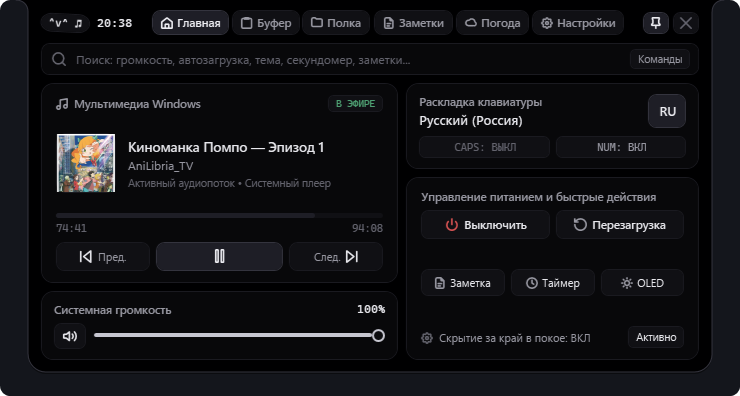
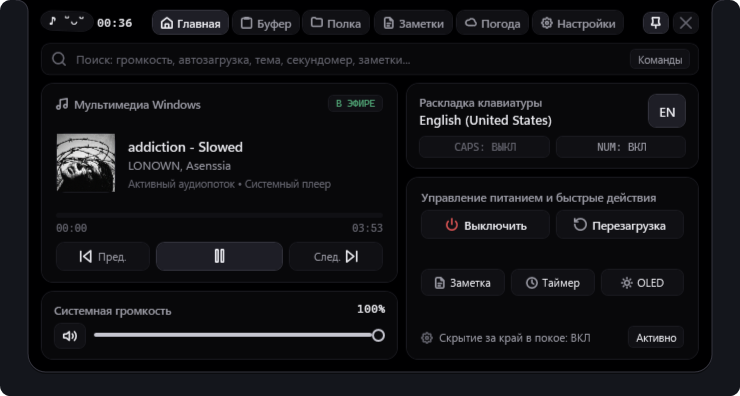
docs: default English README without emojis, add README.ru.md, keep only standard Dark/Light screenshots

diff --git a/README.md b/README.md
@@ -11,154 +11,142 @@
 
 <br/>
 
-**Элегантный, молниеносный и функциональный «Динамический остров» для Windows 10 и 11 в стиле Apple Dynamic Island и ультрасовременной эстетике iOS 26 Liquid Glass.**
+**A lightweight, native, and high-performance Dynamic Island interface for Windows 10 and Windows 11.**
 
-[Скачать установщик (.exe)](https://github.com/paraxyoz/windows-dynamic-island/releases/latest) • [Портативная версия](https://github.com/paraxyoz/windows-dynamic-island/releases/latest) • [Возможности](#-основные-возможности) • [Горячие клавиши](#-горячие-клавиши) • [Сборка](#-сборка-из-исходников)
-
-<br/>
-
-<img src="assets/screenshots/capsule_ios26.png" alt="Windows Dynamic Island в спокойном состоянии (iOS 26 Glass)" width="680" />
+[Download Installer (.exe)](https://github.com/paraxyoz/windows-dynamic-island/releases/latest) | [Portable Version](https://github.com/paraxyoz/windows-dynamic-island/releases/latest) | [Features](#key-features) | [Hotkeys](#default-hotkeys) | [Build Guide](#building-from-source) | [Документация на русском](README.ru.md)
 
 <br/>
 
-<img src="assets/screenshots/home_ios26.png" alt="Windows Dynamic Island — Главное меню (iOS 26 Liquid Glass)" width="780" />
+<img src="assets/screenshots/capsule_dark.png" alt="Windows Dynamic Island in collapsed state" width="420" />
+
+<br/>
+
+<img src="assets/screenshots/home_dark.png" alt="Windows Dynamic Island Dark Theme" width="760" />
 
 </div>
 
 ---
 
-## 🌟 Почему Windows Dynamic Island?
+## Overview
 
-В отличие от громоздких веб-оболочек на Electron, **Windows Dynamic Island** написан на чистом C# и нативном **WPF (.NET Framework 4.8)** с прямым вызовом Win32 / CoreAudio / Windows Runtime API:
-- **0% нагрузки на процессор** и видеокарту в состоянии покоя.
-- **Потребление ОЗУ всего ~20–30 МБ**.
-- **100% клик-сквозь (`HTTRANSPARENT`)** — остров нигде не блокирует клики мыши вне активной капсулы; окна под ним свободно нажимаются и скроллятся.
-- **Умное скрытие в полноэкранных играх и фильмах** с отслеживанием именно того монитора, на котором запущен остров.
-- **Поддержка любых DPI-масштабов и нескольких мониторов** с авто-подгонкой положения.
+**Windows Dynamic Island** is built using native **C# and WPF (.NET Framework 4.8)** with low-level Win32, Windows Runtime, and CoreAudio COM integrations:
+
+- **Ultra-low Resource Footprint:** Consumes ~20–25 MB of RAM and 0% CPU/GPU cycles when idle.
+- **Hardware-Accelerated Animation Engine:** Frame-locked 120 FPS+ spring physics without layout stutter.
+- **True Click-Through Transparency (`HTTRANSPARENT`):** Only the active capsule consumes pointer events. Underlying windows remain fully clickable and scrollable.
+- **Fullscreen Application Detection:** Automatically hides during full-screen games and media playback, scoped per-monitor.
+- **Multi-Monitor & DPI Aware:** Dynamically positions and scales across multiple displays and varying display scaling factors.
 
 ---
 
-## 📸 Галерея скриншотов
+## Visual Themes
 
 <div align="center">
 
-### 💎 Тема iOS 26 Liquid Glass & Тёмная OLED
-| Тема iOS 26 Liquid Glass | Тёмная тема (OLED Dark) |
+| Dark Theme (OLED Black) | Light Theme |
 | :---: | :---: |
-| <img src="assets/screenshots/home_ios26.png" width="400" /> | <img src="assets/screenshots/home_dark.png" width="400" /> |
-
-### 📝 Заметки: Отдельный список карточек & Редактор с напоминаниями
-| Список отдельных заметок (Поиск, Пин, Быстрое выключение ✕) | Редактор выбранной заметки (+5м, +15м, +1ч, ЧЧ:ММ) |
-| :---: | :---: |
-| <img src="assets/screenshots/notes_list.png" width="400" /> | <img src="assets/screenshots/note_editor.png" width="400" /> |
-
-### 🔔 Мелодии уведомлений & 📋 Умный буфер обмена
-| Выбор звука уведомлений (Apple Pay, Plum, Trum, Phonk) | Буфер обмена с защитой токенов и OLE Drag & Drop |
-| :---: | :---: |
-| <img src="assets/screenshots/settings_sound.png" width="400" /> | <img src="assets/screenshots/clipboard.png" width="400" /> |
-
-### 📂 Файловая полка & 🌤 Реальная погода
-| Файловая полка (Drag & Drop ссылки без дублирования) | Прогноз погоды Open-Meteo (24ч и 7 дней) |
-| :---: | :---: |
-| <img src="assets/screenshots/file_shelf.png" width="400" /> | <img src="assets/screenshots/weather.png" width="400" /> |
+| <img src="assets/screenshots/home_dark.png" width="380" /> | <img src="assets/screenshots/home_light.png" width="380" /> |
+| <img src="assets/screenshots/capsule_dark.png" width="380" /> | <img src="assets/screenshots/capsule_light.png" width="380" /> |
 
 </div>
 
 ---
 
-## ✨ Основные возможности
+## Key Features
 
-### 1. 💧 Спокойное состояние и адаптивный мениск
-- **Капля-мениск:** Прилипает к верхней кромке экрана с плавными вогнутыми ушками, рассчитанными по математическим кубическим кривым Безье.
-- **Живой смайлик-компаньон:** 5 вариантов чисто текстовых каомодзи (`^_^`, `•ᴗ•`, `[•_•]`, `=^..^=`, `◕‿◕`). Реагирует на звук, переключение языков, копирование файлов, без навязчивости.
-- **Приятный ритм музыки:** При воспроизведении музыки смайлик мягко кивает в такт со стабильной ноткой `♪ ^_^`, без резких прыжков.
-- **Часы и погода:** Точное системное время и текущая погода за окном прямо в центре капсулы.
+### 1. Collapsed State & Adaptive Meniscus
+- **Seamless Drop Extrusion:** Attaches to the top edge of the primary or selected screen with cubic Bezier curves.
+- **Companion Status Glyph:** Lightweight text-based kaomoji indicators (`^_^`, `•ᴗ•`, `[•_•]`, `=^..^=`, `◕‿◕`) reflecting audio state, layout toggles, and notification alerts.
+- **Live Clock & Weather:** High-precision monospace clock display alongside real-time outdoor temperature.
 
-### 2. ⚡ Быстрые тосты и приоритетная очередь уведомлений
-- **Плавное вытеснение без задержек:** Быстрые действия (переключение музыки Play/Pause, смена трека, изменение громкости) мгновенно сменяют друг друга без зависания в долгой очереди.
-- **Регулировка громкости без мерцания:** Плавный градиентный ползунок откликается на системное колесо громкости с квадратичным сглаживанием 65 мс.
-- **Интерактивные напоминания:** Напоминания по заметкам можно закрыть в один клик кнопкой **«Выполнено ✓»** или отложить кнопкой **«Отложить +5м»**.
-- **Новые приятные мелодии:** Встроенные чистые звуки (`Apple Pay`, `Plum`, `Trum`, `Phonk`) с предпрослушкой в настройках.
+### 2. Transient Notification Toasts
+- **Preemptive Event Dispatching:** High-frequency actions (volume adjustments, media play/pause, track changes) preempt active toasts immediately without queuing delays.
+- **Flicker-Free Hardware Volume:** Smooth quadratic easing on volume change notifications.
+- **Notification Sounds:** Built-in clean audio presets (`Apple Pay`, `Plum`, `Trum`, `Phonk`) with an instant preview button in settings.
+- **Interactive Action Buttons:** Note reminders can be marked completed or snoozed directly from the toast layer.
 
-### 3. 📝 Полноценный рабочий стол заметок
-- **Каждая заметка отдельно:** Чистый вертикальный список карточек с временем обновления, статусом закрепления и превью текста.
-- **Управление напоминаниями в 1 клик:** Зелёная капсула `🔔 18:30 ✕` прямо в карточке заметки отключает напоминание без захода внутрь.
-- **Детальный редактор:** Открывается по клику на карточку заметки — заголовок, многострочный текст, кнопки быстрых сдвигов `+5м`, `+15м`, `+1ч` и точный ввод `ЧЧ:ММ`.
+### 3. Dedicated Notes Workspace
+- **Card-Based Note Management:** Structured vertical card list with live search, pin toggles, and timestamps.
+- **One-Click Reminder Controls:** Quick toggles for reminders (`+5m`, `+15m`, `+1h`, and custom time entry `HH:mm`) with a direct disable action (`✕`).
+- **Real-Time Auto-Save:** Changes are persisted atomically with automated recovery backups.
 
-### 4. 📋 Умный буфер обмена с защитой приватности
-- **Автоматический сбор истории:** Мгновенный перехват через Win32 API без фонового поллинга.
-- **Фильтрация паролей:** Автоматически отсекает мастер-пароли, пароли из 1Password/Bitwarden и секретные токены (`sk-...`, `ghp_...`).
-- **OLE Drag & Drop:** Вы можете перетащить запись мышью прямо в поле ввода Telegram, Discord, Word или браузер.
+### 4. Privacy-Focused Clipboard History
+- **Automatic History Tracking:** Captures text clipboard changes via `WM_CLIPBOARDUPDATE`.
+- **Credential & Token Filter:** Automatically ignores sensitive data (passwords, tokens, API keys matching `sk-...`, `ghp_...`).
+- **Native OLE Drag & Drop:** Drag clipboard items directly into applications, editors, Discord, or Telegram.
 
-### 5. 📁 Файловая полка (Shelf)
-- Перетаскивайте файлы и папки прямо на капсулу — полка создаёт лёгкие ссылки без копирования и не тратит место на диске.
-- Быстрый доступ к документам и проектам из любого полноэкранного окна.
+### 5. File Shelf
+- **Non-Destructive Referencing:** Drag files onto the island to create temporary staging links without duplicating files on disk.
+- **Cross-Application Drag & Drop:** Drag files directly from the shelf back into Explorer, chat clients, or browsers.
 
-### 6. ⏱ Таймер и мульти-секундомер
-- Быстрые пресеты `1м`, `5м`, `10м`, `25м` (Pomodoro).
-- Таймер выводит оставшееся время прямо в свёрнутую капсулу острова.
-- Секундомер с фиксацией промежуточных кругов (Laps).
+### 6. Time Instruments
+- **Countdown Timer:** Quick duration presets (`1m`, `5m`, `10m`, `25m`) with live countdown projected into the collapsed capsule.
+- **Stopwatch:** High-resolution split and cumulative lap tracking.
 
-### 7. 🌤 Погода без API-ключей
-- Интеграция с открытым метео-сервером Open-Meteo.
-- Поиск любых городов мира, почасовой прогноз на 24 часа и недельный прогноз.
+### 7. Weather Integration
+- **Open-Meteo REST API:** Real-time meteorological data with zero API key requirement.
+- **Forecasts:** 24-hour hourly trend and 7-day extended forecasts with offline caching.
 
 ---
 
-## ⌨ Горячие клавиши
+## Default Hotkeys
 
-| Сочетание клавиш | Действие |
+| Key Combination | Action |
 | :--- | :--- |
-| <kbd>Alt</kbd> + <kbd>Space</kbd> | Развернуть / свернуть Dynamic Island |
-| <kbd>Alt</kbd> + <kbd>N</kbd> | Открыть компактную быструю заметку (или раздел Заметок) |
-| <kbd>Alt</kbd> + <kbd>B</kbd> | Мгновенно открыть историю буфера обмена |
+| `Alt + Space` | Expand / collapse Dynamic Island (or reveal if hidden) |
+| `Alt + N` | Open Quick Note / Notes section |
+| `Alt + B` | Open Clipboard History |
 
 ---
 
-## 🚀 Установка
+## Installation
 
-### Вариант 1: Автономный инсталлятор (Рекомендуется)
-1. Скачайте **[`WindowsDynamicIslandSetup.exe`](https://github.com/paraxyoz/windows-dynamic-island/releases/latest)** из раздела [Releases](https://github.com/paraxyoz/windows-dynamic-island/releases).
-2. Запустите установщик. Он автоматически установит приложение, создаст ярлыки в меню Пуск и настроит автозапуск по желанию.
-3. *Для тихой автоматической установки:*
+### Installer (Recommended)
+1. Download **`WindowsDynamicIslandSetup.exe`** from [Releases](https://github.com/paraxyoz/windows-dynamic-island/releases/latest).
+2. Run the executable to install the application, create Start Menu shortcuts, and optionally register startup.
+3. For silent automated deployment:
    ```powershell
    .\WindowsDynamicIslandSetup.exe --silent
    ```
 
-### Вариант 2: Портативная версия (Portable)
-1. Скачайте **[`WindowsDynamicIsland.exe`](https://github.com/paraxyoz/windows-dynamic-island/releases/latest)**.
-2. Поместите в любую удобную папку и запустите. Никаких реестров и внешних зависимостей — всё работает из коробки.
+### Portable Executable
+1. Download **`WindowsDynamicIsland.exe`** from [Releases](https://github.com/paraxyoz/windows-dynamic-island/releases/latest).
+2. Place the executable in any directory and launch directly. No registry changes or external dependencies are required.
 
 ---
 
-## 🛠 Сборка из исходников
+## Building from Source
 
-Для сборки требуется Windows 10/11 и Visual Studio Build Tools / MSBuild:
+### Prerequisites
+- Windows 10 (version 1903+) or Windows 11 (x64)
+- .NET Framework 4.8 Developer Pack
+- MSBuild (Visual Studio 2019/2022 or Build Tools)
 
+### Build Steps
 ```powershell
-# Клонируйте репозиторий
+# Clone the repository
 git clone https://github.com/paraxyoz/windows-dynamic-island.git
 cd windows-dynamic-island
 
-# Запустите скрипт компиляции и прогона тестов
+# Compile binaries and execute unit tests
 powershell -ExecutionPolicy Bypass -File .\build.ps1
 ```
 
-Скрипт автоматически:
-1. Компилирует проект в конфигурации `Release x64`.
-2. Запускает 9/9 автоматических модульных тестов (`WindowsDynamicIsland.Tests.exe`).
-3. Собирает установщик `WindowsDynamicIslandSetup.exe` в папку `dist/`.
+The build script will:
+1. Compile `src/WindowsDynamicIsland` in `Release x64` configuration.
+2. Run automated verification tests (`WindowsDynamicIsland.Tests.exe`).
+3. Compile the standalone setup installer into `dist/`.
 
 ---
 
-## 🔍 Поисковые теги / SEO Keywords
+## Search Indexing & Tags
 
-`windows dynamic island`, `dynamic island for windows 11`, `динамический остров виндовс`, `apple dynamic island pc`, `windows 11 customization`, `glassmorphism widget windows`, `wpf dynamic island`, `desktop productivity tool`, `clipboard manager windows 11`, `ios 26 glass widget`, `windows остров виджет`, `динамический остров на пк`.
+`windows dynamic island`, `dynamic island windows 11`, `dynamic island pc`, `wpf dynamic island`, `windows 11 desktop widget`, `csharp wpf desktop tool`, `desktop productivity utility`, `clipboard manager windows`, `windows 10 customization`.
 
 ---
 
-## 📄 Лицензия
+## License
 
-Проект распространяется под свободной и открытой лицензией [MIT](LICENSE). Разработано с душой и вниманием к деталям.
+This project is licensed under the [MIT License](LICENSE).
 
-**Автор:** [@paraxyoz](https://github.com/paraxyoz)
+Developed by [@paraxyoz](https://github.com/paraxyoz).

diff --git a/README.ru.md b/README.ru.md
@@ -1,0 +1,141 @@
+# Windows Dynamic Island
+
+<div align="center">
+
+[![Release](https://img.shields.io/badge/Релиз-v1.0.0--beta-6366f1?style=for-the-badge&logo=github)](https://github.com/paraxyoz/windows-dynamic-island/releases)
+[![Platform](https://img.shields.io/badge/Платформа-Windows%2010%20%7C%2011%20(x64)-0078d4?style=for-the-badge&logo=windows)](https://github.com/paraxyoz/windows-dynamic-island)
+[![Framework](https://img.shields.io/badge/.NET%20Framework-4.8%20%7C%20WPF-512bd4?style=for-the-badge&logo=dotnet)](https://github.com/paraxyoz/windows-dynamic-island)
+[![Performance](https://img.shields.io/badge/Производительность-120%2B%20FPS%20GPU-10b981?style=for-the-badge&logo=nvidia)](https://github.com/paraxyoz/windows-dynamic-island)
+[![Memory](https://img.shields.io/badge/ОЗУ-~25%20МБ-059669?style=for-the-badge)](https://github.com/paraxyoz/windows-dynamic-island)
+[![License](https://img.shields.io/badge/Лицензия-MIT-amber?style=for-the-badge)](LICENSE)
+
+<br/>
+
+**Легковесный, нативный и высокопроизводительный «Динамический остров» для Windows 10 и Windows 11.**
+
+[Скачать установщик (.exe)](https://github.com/paraxyoz/windows-dynamic-island/releases/latest) | [Портативная версия](https://github.com/paraxyoz/windows-dynamic-island/releases/latest) | [Возможности](#основные-возможности) | [Горячие клавиши](#горячие-клавиши) | [Сборка](#сборка-из-исходников) | [English Documentation](README.md)
+
+<br/>
+
+<img src="assets/screenshots/capsule_dark.png" alt="Windows Dynamic Island в свёрнутом состоянии" width="420" />
+
+<br/>
+
+<img src="assets/screenshots/home_dark.png" alt="Windows Dynamic Island Тёмная тема" width="760" />
+
+</div>
+
+---
+
+## Обзор
+
+**Windows Dynamic Island** разработан на **C# и WPF (.NET Framework 4.8)** с использованием нативных API Windows (Win32, CoreAudio COM, Windows Media Session):
+
+- **Минимальное потребление ресурсов:** Около 20–25 МБ оперативной памяти и 0% нагрузки на CPU/GPU в покое.
+- **Аппаратная пружинная физика:** Стабильные 120+ FPS без рывков интерфейса.
+- **Сквозные клики (`HTTRANSPARENT`):** Только активная капсула перехватывает клики мыши. Все окна под ней остаются кликабельными.
+- **Автоматическое скрытие в полноэкранных приложениях:** Скрывается при запуске игр и полноэкранного видео на текущем мониторе.
+- **Поддержка нескольких мониторов и любого масштаба DPI:** Корректное позиционирование и масштабирование без размытия интерфейса.
+
+---
+
+## Темы оформления
+
+<div align="center">
+
+| Тёмная тема (OLED Dark) | Светлая тема |
+| :---: | :---: |
+| <img src="assets/screenshots/home_dark.png" width="380" /> | <img src="assets/screenshots/home_light.png" width="380" /> |
+| <img src="assets/screenshots/capsule_dark.png" width="380" /> | <img src="assets/screenshots/capsule_light.png" width="380" /> |
+
+</div>
+
+---
+
+## Основные возможности
+
+### 1. Свёрнутое состояние и адаптивный мениск
+- **Капля-мениск:** Сглаженный контур примыкания к верхней кромке экрана по кубическим кривым Безье.
+- **Смайлик-компаньон:** Текстовые каомодзи (`^_^`, `•ᴗ•`, `[•_•]`, `=^..^=`, `◕‿◕`), отражающие статус воспроизведения музыки, раскладку клавиатуры и уведомления.
+- **Часы и температура:** Моноширинные часы и актуальная температура за окном в центре капсулы.
+
+### 2. Всплывающие уведомления (Тосты)
+- **Мгновенное вытеснение:** Быстрые действия (регулировка громкости, пауза/воспроизведение, переключение треков) сменяют друг друга сразу, без ожидания очереди.
+- **Плавный индикатор громкости:** Квадратичное сглаживание без мерцания при регулировке колесом мыши.
+- **Системные звуки уведомлений:** Чистые пресеты (`Apple Pay`, `Plum`, `Trum`, `Phonk`) с предпрослушкой в настройках.
+- **Интерактивные действия:** Завершение или перенос напоминаний прямо из тоста.
+
+### 3. Рабочее пространство заметок
+- **Список карточек:** Отдельное отображение каждой заметки с поиском, закреплением и временем последнего изменения.
+- **Управление напоминаниями в один клик:** Быстрое отключение напоминания кнопкой `✕` в списке или детальная настройка сдвига (`+5м`, `+15м`, `+1ч`, точное время `ЧЧ:ММ`).
+- **Автоматическое сохранение:** Мгновенное сохранение на диск с созданием резервных копий.
+
+### 4. Буфер обмена с защитой приватности
+- **Перехват истории:** Фиксация текста через `WM_CLIPBOARDUPDATE` без фонового опроса.
+- **Фильтрация чувствительных данных:** Автоматический пропуск паролей из менеджеров паролей и токенов доступа (`sk-...`, `ghp_...`).
+- **OLE Drag & Drop:** Прямое перетаскивание записей мышью в Telegram, Discord, браузер или текстовые редакторы.
+
+### 5. Файловая полка (Shelf)
+- Создание ссылок на файлы и папки без дублирования данных на диске.
+- Быстрое перетаскивание файлов обратно в проводник или мессенджеры.
+
+### 6. Таймер и секундомер
+- Быстрые пресеты на 1, 5, 10 и 25 минут с отображением отсчёта в свёрнутой капсуле.
+- Секундомер с фиксацией кругов.
+
+### 7. Погода
+- Открытый API Open-Meteo без необходимости регистрации ключей.
+- Почасовой прогноз на 24 часа и недельный прогноз на 7 дней.
+
+---
+
+## Горячие клавиши
+
+| Сочетание клавиш | Действие |
+| :--- | :--- |
+| `Alt + Space` | Развернуть / свернуть Dynamic Island |
+| `Alt + N` | Открыть быструю заметку / Заметки |
+| `Alt + B` | Открыть историю буфера обмена |
+
+---
+
+## Установка
+
+### Автономный инсталлятор (Рекомендуется)
+1. Скачайте **`WindowsDynamicIslandSetup.exe`** со страницы [Releases](https://github.com/paraxyoz/windows-dynamic-island/releases/latest).
+2. Запустите установщик. Он установит программу и создаст ярлыки в меню Пуск.
+3. Для тихой установки:
+   ```powershell
+   .\WindowsDynamicIslandSetup.exe --silent
+   ```
+
+### Портативная версия
+1. Скачайте **`WindowsDynamicIsland.exe`** со страницы [Releases](https://github.com/paraxyoz/windows-dynamic-island/releases/latest).
+2. Поместите файл в любую папку и запустите. Никаких реестров или внешних библиотек не требуется.
+
+---
+
+## Сборка из исходников
+
+```powershell
+# Клонирование репозитория
+git clone https://github.com/paraxyoz/windows-dynamic-island.git
+cd windows-dynamic-island
+
+# Сборка и прогон тестов
+powershell -ExecutionPolicy Bypass -File .\build.ps1
+```
+
+---
+
+## Поисковые теги
+
+`windows dynamic island`, `dynamic island windows 11`, `динамический остров виндовс`, `apple dynamic island pc`, `windows 11 customization`, `wpf desktop widget`, `desktop productivity utility`, `clipboard manager windows`.
+
+---
+
+## Лицензия
+
+Распространяется под свободной лицензией [MIT](LICENSE).
+
+Автор: [@paraxyoz](https://github.com/paraxyoz).
